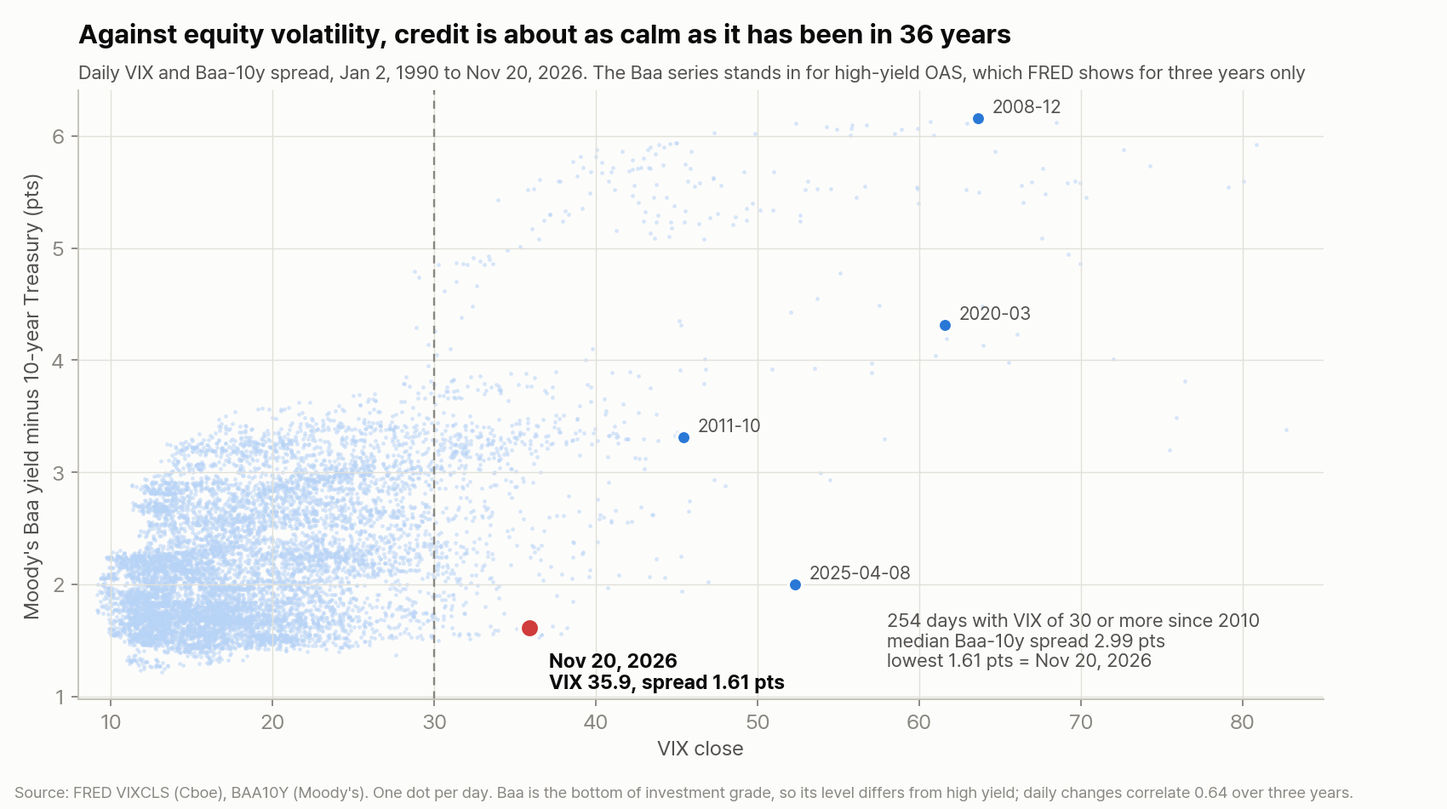
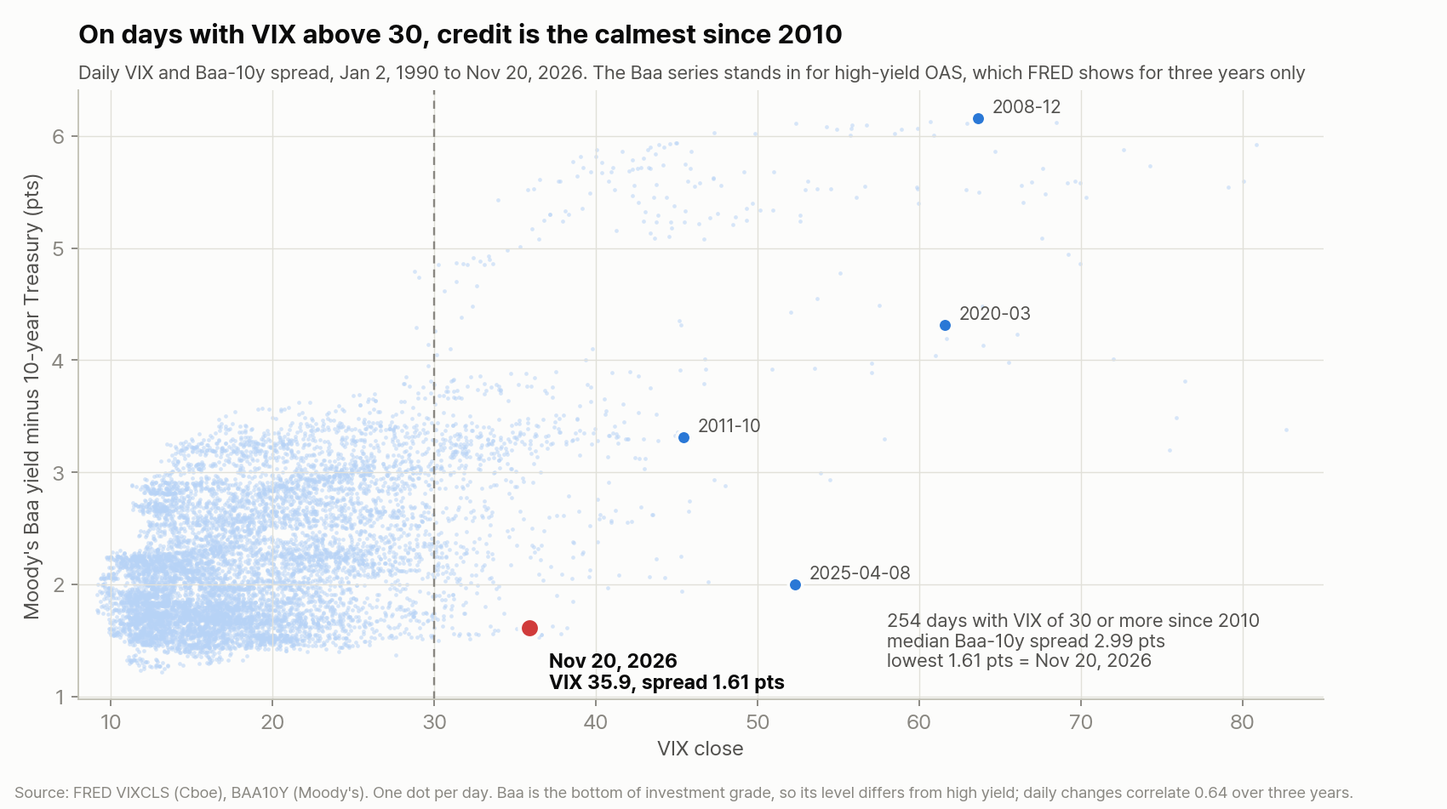
blog: High yield crossed 350bp; the damage sits in CCC bonds and the core of the credit market is holding (en, ko)

Changed region(s): [[0.0312, 0.0305, 0.7171, 0.061]]

diff --git a/content/post/high-yield-crossed-350bp-damage-in-ccc-tail-core-holds-2026-11-24/index.ko.md b/content/post/high-yield-crossed-350bp-damage-in-ccc-tail-core-holds-2026-11-24/index.ko.md
@@ -1,0 +1,149 @@
+---
+title: "하이일드가 350bp를 넘었습니다: 상처는 CCC 채권에 몰렸고 신용시장의 몸통은 아직 버팁니다"
+date: 2026-11-24T23:30:00+09:00
+lastmod: 2026-11-24T23:30:00+09:00
+categories: ["market-analysis", "ai-infrastructure"]
+tags: ["하이일드", "신용 스프레드", "CCC", "회사채", "VIX", "AI 설비투자", "네오클라우드", "연준"]
+series: ["AI Capex Watch"]
+slug: "high-yield-crossed-350bp-damage-in-ccc-tail-core-holds-2026-11-24"
+description: "미국 하이일드 스프레드가 11월 20일 376bp로 저희가 적어 둔 350bp 선을 넘었습니다. 그런데 CCC만 작년 4월 고점을 265bp 넘었고 BB·B는 그 고점보다 77bp 이상 낮습니다. VIX 35.9에 비하면 신용은 2010년 이후 가장 조용합니다."
+image: "cover.ko.png"
+draft: false
+---
+
+11월 14일 저희는 AI 회사채가 위험의 값을 거의 받지 않고 있다고 썼습니다. 그 판단을 뒤집는 첫 신호로는 하이일드 스프레드 350bp와 AA 등급 스프레드 75bp를 적었습니다.
+
+11월 19일 미국 하이일드 스프레드가 352bp로 그 선을 넘었고, 11월 20일에는 376bp까지 벌어졌습니다. 같은 날 S&P 500은 10월 6일 고점보다 11.6% 낮았고 VIX는 35.89였습니다. 신용이 값을 받기 시작한 것은 맞습니다.
+
+그런데 등급별로 쪼개 보면 값이 붙은 자리가 좁습니다. CCC 이하 채권의 스프레드는 1,402bp로 2025년 4월 관세 충격 때보다 265bp 높습니다. 하이일드 지수의 몸통인 BB와 B는 그때보다 77~78bp 낮습니다.
+
+<strong>저희 판단: 12월 18일 마이크론 실적까지 4주를 놓고 보면, 이번 확대는 가장 약한 차주가 다시 값을 매기는 과정입니다. 신용시장 전체가 무너지기 시작한 신호로 보지 않습니다. 판단을 다시 할 다음 선은 AA 스프레드 75bp(11월 20일 72bp)와, 하이일드 스프레드가 400bp 위에서 5거래일을 버티는 경우입니다.</strong>
+
+- 하이일드 스프레드 376bp는 최근 3년 가운데 상위 4%입니다. 다만 이 3년은 역사적으로 스프레드가 좁던 시기이고, 관세 충격 고점 461bp보다는 85bp 낮습니다.
+- CCC와 BB의 격차는 1,173bp로 3년 최대입니다. CCC는 1월 말부터 564bp 벌어졌고 주식 급락보다 먼저 움직였습니다.
+- 2010년 이후 VIX가 30을 넘은 254일 가운데 11월 20일의 Baa 회사채 스프레드(1.61%p)가 가장 낮았습니다. 주식 변동성에 비해 신용은 거의 놀라지 않았습니다.
+- 11월 23일 S&P 500이 4.7% 오른 날 하이일드 스프레드는 약 5bp만 좁아진 것으로 추정됩니다. 신용은 급락 때 주식보다 훨씬 덜 움직였고 반등 때는 거의 움직이지 않았습니다.
+- 다음 확인은 11월 23~25일 공식 스프레드 값, 12월 10일 FOMC 뒤 신용 반응, 12월 18일까지의 AA 75bp입니다.
+
+## 350bp는 넘었지만 작년 4월 고점까지는 85bp가 남았습니다
+
+하이일드 스프레드는 9월 21일 266bp에서 두 달 만에 110bp 벌어졌습니다. 11월 13일부터 20일까지 5거래일 동안 53bp가 벌어졌는데, 최근 3년 가운데 8번째로 빠른 속도입니다. 더 빨랐던 때는 2024년 8월 엔캐리 청산과 2025년 4월 관세 충격뿐입니다.
+
+![미국 하이일드 OAS 일별 추이, 2023년 11월 24일부터 2026년 11월 20일까지. 3년 중앙값 3.02%, 2025년 1월 22일 저점 2.59%, 2025년 4월 7일 관세 충격 고점 4.61%, 2026년 11월 20일 3.76%, 11월 23일 추정 3.71%.](/post-assets/high-yield-crossed-350bp-damage-in-ccc-tail-core-holds-2026-11-24/hy-oas-3y.ko.png)
+
+'3년 상위 4%'는 무겁게 들리지만 읽는 범위를 함께 봐야 합니다. 미국 연준 경제 데이터베이스(FRED)는 ICE 하이일드 지수를 최근 3년만 공개합니다. 이 3년의 평균 스프레드는 긴 역사로 보면 낮은 쪽에 있습니다(3절).
+
+## 상처는 CCC 채권에 몰렸습니다
+
+2025년 4월에는 BB·B·CCC가 같은 날 함께 정점을 찍었습니다. 이번에는 CCC만 그 선을 넘었습니다.
+
+![등급별 OAS 세 칸. BB는 11월 20일 2.29%로 2025년 4월 7일 3.06%보다 77bp 낮고, B는 4.08%로 4.86%보다 78bp 낮으며, CCC 이하는 14.02%로 11.37%보다 265bp 높습니다.](/post-assets/high-yield-crossed-350bp-damage-in-ccc-tail-core-holds-2026-11-24/hy-ratings-small-multiples.ko.png)
+
+| 11월 20일 | 값 | 최근 3년 중 위치 | 2025년 4월 7일 대비 | 9월 21일 대비 |
+|---|---:|---:|---:|---:|
+| 하이일드 전체 | 376bp | 상위 4% | -85bp | +110bp |
+| BB | 229bp | 상위 5% | -77bp | +76bp |
+| B | 408bp | 상위 2% | -78bp | +138bp |
+| CCC 이하 | 1,402bp | 최고 | +265bp | +325bp |
+| 투자등급 회사채 전체 | 98bp | 상위 15% | -22bp | +21bp |
+| AA | 72bp | 작년 고점 73bp | -1bp | - |
+| 하이일드 총금리 | 8.46% | 상위 1% | -5bp | - |
+
+표에서 읽을 것은 꼬리와 몸통의 거리입니다. CCC는 1월 28일 838bp에서 10개월 동안 564bp 벌어졌고, CCC와 BB의 격차(1,173bp)는 3년 최대입니다. 위험이 지수 전체보다 가장 약한 층에 쌓이고 있습니다.
+
+꼬리 안에서도 쏠림이 있습니다. Vanguard는 11월 10일 150여 개 CCC 발행사 가운데 넷이 CCC 스프레드의 30% 넘게 차지하고, 통신·미디어 기업이 많다고 밝혔습니다. CCC는 하이일드 시장의 10%가 안 됩니다. AI 쪽 약한 고리인 코어위브의 5년 신용부도스와프(CDS)는 1,100~1,200bp, 2031년 만기 채권 수익률은 16% 가까이로 보도됐습니다(CNBC, 11월 18일).
+
+## VIX 30을 넘은 날로 보면 신용은 2010년 이후 가장 조용합니다
+
+하이일드 지수의 긴 이력을 공개 자료로 쓸 수 없어, 1990년부터 끊김 없이 공개된 무디스 Baa 회사채 금리와 10년 국채 금리의 차이를 함께 봤습니다. Baa는 투자등급의 가장 아래 칸이라 수준은 하이일드와 다르지만, 최근 3년 두 지표의 일별 변화 상관은 0.64입니다.
+
+![1990년부터 2026년까지 일별 VIX와 Baa-10년 스프레드 산점도. 2008년 12월, 2020년 3월, 2011년 10월, 2025년 4월 8일은 VIX가 높을 때 스프레드도 높았습니다. 2026년 11월 20일은 VIX 35.9에 스프레드 1.61%p로 아래쪽에 홀로 떨어져 있습니다.](/post-assets/high-yield-crossed-350bp-damage-in-ccc-tail-core-holds-2026-11-24/vix-vs-baa-1990.ko.png)
+
+| 국면 | Baa-10년 스프레드 고점 | VIX 고점 |
+|---|---:|---:|
+| 2008년 금융위기 | 6.16%p | 80.9 |
+| 2020년 코로나 | 4.31%p | 82.7 |
+| 2016년 에너지 신용 | 3.63%p | 28.1 |
+| 2011년 유럽 재정위기 | 3.39%p | 48.0 |
+| 2022년 긴축 | 2.42%p | 34.0 |
+| 2025년 관세 충격 | 2.02%p | 52.3 |
+| 2026년 11월(20일까지) | 1.61%p | 35.9 |
+
+2010년 이후 VIX가 30을 넘은 254일의 Baa 스프레드 중앙값은 2.99%p입니다. 11월 20일은 그 254일 가운데 가장 낮았습니다. 차이는 크지 않습니다. 다음으로 낮았던 날은 2018년 2월 변동성 급등 때의 1.63%p입니다. 1990년까지 넓히면 1990년 8월에 더 낮은 날이 있었습니다. 주식시장은 공포에 가까운 변동성을 보였는데 신용시장은 거의 평상시 가격을 유지했습니다.
+
+## 주식은 하루 만에 4.7% 돌아왔고 신용은 거의 움직이지 않았습니다
+
+11월 20일 S&P 500은 3.7%, 나스닥은 5.2% 내렸습니다. 보도는 AI 거래의 붕괴와 엔비디아 14% 하락을 전하며 CEO 이탈을 함께 다뤘습니다(Investopedia). 11월 23일에는 엔비디아 이사회가 젠슨 황을 복귀시켰다는 보도와 함께 엔비디아가 31% 올랐습니다(Yahoo Finance). S&P 500 종가는 4.7% 올랐습니다.
+
+신용은 급락하던 날에도 움직이긴 했습니다. 11월 20일 하루에 하이일드 스프레드가 24bp 벌어졌습니다. 그래도 주식의 낙폭에 비하면 작았고, 반등하던 날에는 거의 돌아오지 않았습니다.
+
+![8월 말 이후 최근 고점 대비 하락률을 2026년 9월 1일부터 11월 23일까지 표시. S&P 500 ETF(SPY)는 11월 20일 -11.5%에서 11월 23일 -7.3%로 회복, BDC ETF는 -7.1%, 하이일드 채권 ETF는 -2.8%, 레버리지론 ETF는 -0.5%.](/post-assets/high-yield-crossed-350bp-damage-in-ccc-tail-core-holds-2026-11-24/drawdown-equity-vs-credit.ko.png)
+
+하이일드 채권 ETF(HYG)는 반등한 날 0.25% 오르는 데 그쳤습니다. 공식 11월 23일 스프레드는 아직 게시되지 않아, 최근 3개월 HYG 수익률과 10년 금리 변화로 추정했습니다. 추정치는 약 371bp(범위 362~380bp)로, 하루 동안 5bp쯤 좁아진 셈입니다. 레버리지론 ETF는 오히려 조금 내렸습니다. 주식은 엔비디아 경영진 소식에 반응했고, 신용은 그 소식을 이자 지급 능력과 무관한 일로 읽은 것으로 보입니다.
+
+## 긴축은 금리에서 위험 웃돈으로 옮겨 갔습니다
+
+| 지표 | 11월 13일 | 11월 20일 | 변화 |
+|---|---:|---:|---:|
+| 1년 국채 금리 - SOFR | 75bp | 59bp | -16bp |
+| 10년 국채 금리 | 5.15% | 4.92% | -23bp |
+| 하이일드 스프레드 | 323bp | 376bp | +53bp |
+| 하이일드 총금리 | 8.20% | 8.46% | +26bp |
+
+11월 둘째 주의 긴축은 실질금리 상승으로 왔고, 그때 하이일드 스프레드는 오히려 좁아졌습니다. 셋째 주에는 방향이 바뀌었습니다. 국채 금리가 내렸고, 금리 인상 기대를 거칠게 보여 주는 1년 국채 금리와 SOFR의 차이도 줄었습니다. 그 자리를 위험 웃돈이 채웠습니다. 돈의 가격은 내리는데 위험의 가격이 오르는 조합입니다.
+
+## 몸통이 버티는 이유와 꼬리가 무너지는 이유
+
+하이일드 지수의 90% 이상은 BB와 B입니다. 총금리 8%대는 수익률을 보고 사는 보험·연금·인컴 펀드에게 매력적인 가격입니다. 11월 20일 10년 국채 금리가 12bp 내리는 동안 스프레드가 24bp 벌어져 총금리는 11bp만 올랐습니다. 총금리가 크게 변하지 않으면 이런 매수 수요는 잘 빠지지 않습니다. 다만 이 해석은 펀드 자금 흐름 자료로 직접 확인하지 못한 추론입니다.
+
+CCC 차주는 사정이 다릅니다. 이들은 빚을 시장 금리로 다시 빌려야 합니다. 10년 국채 5% 안팎에 CCC 스프레드 14%를 더하면 새로 빌리는 비용이 19% 안팎입니다. 이 이자를 감당할 현금흐름이 없는 기업부터 가격이 빠집니다.
+
+주식과 신용이 갈라진 이유도 같은 틀로 설명됩니다. 11월 20일의 충격은 엔비디아 경영진 문제와 AI 기업가치에서 나왔습니다. 그 소식은 대부분 기업의 이자 지급 능력을 바로 바꾸지 않습니다. 신용이 주식만큼 크게 움직이지 않은 것도, 반등 때 함께 돌아오지 않은 것도 그래서 일관됩니다.
+
+## AI 설비투자와 메모리에 닿는 경로
+
+하이퍼스케일러는 영업현금과 투자등급 채권으로 설비투자 자금을 댑니다. 그 채권이 거래되는 가격대인 AA 스프레드는 72bp로, 저희가 적어 둔 75bp 선 아래입니다. 신용이 AI 설비투자를 줄이는 경로가 열린다면 하이퍼스케일러 본체보다 빚으로 GPU를 사는 네오클라우드 같은 한계 구매자에서 먼저 열립니다.
+
+한계 구매자의 조달 비용이 오르면 2027~2028년 GPU와 고대역폭메모리(HBM)의 추가 주문 가운데 가장자리가 깎입니다. 하이퍼스케일러 본체 물량은 이 경로와 따로 움직입니다. 그래서 메모리 수요를 앞서 읽으려면 하이일드 지수 전체보다 네오클라우드 채권 가격과 AA 스프레드가 더 쓸모 있습니다.
+
+주식 쪽으로 옮기면, 지금 신용의 모양은 이익과 설비투자가 유지된 채 주가만 크게 빠진 2022년형 급락과 닮았습니다. 2000년형 붕괴로 가려면 하이일드가 400bp 위에서 5거래일을 버티고, 대형 클라우드 기업의 설비투자 가이던스 하향이 함께 나와야 합니다.
+
+## 반론: 2007년에도 꼬리가 먼저 벌어졌습니다
+
+저희 판단의 가장 강한 반례는 2007년입니다. 그때는 하이일드의 약한 꼬리가 먼저 벌어졌고, 몸통과 주식은 몇 달 뒤에 따라왔습니다. 올해 CCC가 1월부터 꾸준히 벌어진 모양은 그 선행 패턴과 닮았습니다.
+
+이 반론이 맞다면 11월 23일의 반등은 약세장 안의 되돌림이고, 지금 조용한 BB와 AA가 몇 주 안에 따라 벌어집니다. 그래서 저희는 꼬리보다 꼬리와 몸통 사이를 봅니다. AA 75bp가 그 첫 관측점입니다.
+
+## 다음에 볼 것
+
+| 일정 | 볼 것 | 판단을 바꾸는 조건 |
+|---|---|---|
+| 11월 25~26일 | FRED에 올라올 11월 23~25일 하이일드·CCC 스프레드 | 하이일드 350bp 미만과 CCC 1,350bp 미만이 5거래일 이어지면 꼬리 경보를 거둡니다 |
+| 12월 10일(한국시간) | FOMC 결정 뒤 신용 반응 | 금리 인상과 스프레드 확대가 겹치면 꼬리가 몸통으로 번질 위험이 커집니다 |
+| 12월 18일까지 | AA 스프레드 75bp | 넘으면 하이퍼스케일러 조달 비용을 다시 판단합니다 |
+| 12월 18일까지 | 하이일드 400bp 위 5거래일 | 이어지면 넓은 신용 사이클 쪽으로 판단을 옮깁니다 |
+| 매주 | 네오클라우드 채권 가격, 대형 기술주 CDS | AI 한계 구매자의 조달 창이 닫히는지 봅니다 |
+
+## 자료 메모
+
+- 하이일드·등급별 스프레드는 ICE BofA 지수의 옵션조정 스프레드(OAS)이고 FRED에서 받았습니다. FRED는 이 계열을 최근 3년만 공개해, 2008·2020년 하이일드 고점은 같은 지표로 비교하지 못했습니다. 긴 비교는 무디스 Baa 회사채와 10년 국채의 금리 차이로 대신했습니다.
+- 11월 23일 하이일드 스프레드는 저희 추정입니다. 최근 3개월 62개 관측으로 일별 스프레드 변화를 HYG 수익률과 10년 금리 변화에 회귀했고(설명력 0.65, 잔차 표준편차 4.4bp), 스트레스 구간에는 ETF 가격이 기초 채권과 벌어질 수 있습니다.
+- CCC 수준은 지수 제공자마다 다릅니다. Vanguard가 11월 10일 쓴 약 1,000bp와 같은 시기 ICE 값(약 1,300bp)의 차이는 지수 정의 차이로 보입니다.
+- 11월 20일과 23일의 원인은 언론 보도에 기댔습니다. 하이일드 펀드 자금 흐름, 코어위브 채권 가격, 대형 기술주 CDS는 1차 값을 받지 못했습니다.
+- '최근 3년 중 위치'는 2023년 11월 24일부터 2026년 11월 20일까지 일별 값 가운데 11월 20일보다 낮은 날의 비율로 계산했습니다.
+
+출처: [FRED, ICE BofA US High Yield Index OAS](https://fred.stlouisfed.org/series/BAMLH0A0HYM2) · [FRED, 등급별 OAS(BB](https://fred.stlouisfed.org/series/BAMLH0A1HYBB) · [B](https://fred.stlouisfed.org/series/BAMLH0A2HYB) · [CCC)](https://fred.stlouisfed.org/series/BAMLH0A3HYC) · [FRED, AA OAS](https://fred.stlouisfed.org/series/BAMLC0A2CAA) · [FRED, Baa-10년 스프레드](https://fred.stlouisfed.org/series/BAA10Y) · [FRED, VIX](https://fred.stlouisfed.org/series/VIXCLS) · [Investopedia/Yahoo Finance, 11월 20일 시장](https://finance.yahoo.com/markets/stocks/articles/stock-market-today-futures-plunge-131303598.html) · [Yahoo Finance, 11월 23일 반도체 반등](https://finance.yahoo.com/markets/article/chip-stocks-led-a-3-trillion-comeback-on-monday--now-comes-turnaround-tuesday-chart-of-the-day-110000187.html) · [Vanguard, Beyond CCCs, high-yield appears resilient](https://corporate.vanguard.com/content/corporatesite/us/en/corp/articles/beyond-ccc-high-yield-appears-resilient.html) · [CNBC, AI CDS(11월 18일)](https://www.cnbc.com/2026/11/18/ai-credit-default-swaps-coreweave-debt.html)
+
+관련 글: [막스가 '믿음의 문제'라 한 AI 회수에 빅테크는 이미 3조달러를 걸었습니다](/post/marks-faith-fed-3-trillion-signed-credit-not-paid-2026-11-14/) · [AI 주식의 질문이 '누가 돈을 대나'로 넘어갔습니다](/post/ai-narrative-demand-to-money-to-permission-credit-decides-2026-11-07/)
+
+<strong>하이일드 꼬리의 균열은 어디서 먼저 몸통으로 올라올까요? A~D 가운데 하나와 그 이유가 되는 숫자 하나를 댓글로 남겨 주세요.</strong>
+
+<strong>A. AA 회사채. 하이퍼스케일러의 조달 비용이 먼저 오릅니다.</strong>
+
+<strong>B. BB 하이일드. 우량 하이일드가 먼저 흔들립니다.</strong>
+
+<strong>C. 레버리지론과 BDC. 사모신용 쪽이 먼저 터집니다.</strong>
+
+<strong>D. 올라오지 않습니다. 꼬리만 정리되고 끝납니다.</strong>
+
+연구와 정보 제공 목적이며 투자 조언이 아닙니다. 판단과 조건은 분석 가정이지 매매 지시나 개인별 포트폴리오 결정이 아닙니다. 수치는 기준일이 있는 자료이고 11월 23일 하이일드 값은 추정입니다. 분석과 작성에는 Anthropic의 Claude를 썼습니다. 11월 20일 시장 보도에는 Anthropic 상장 첫 거래가 함께 나오며, 그 영향의 크기는 판단하지 않았습니다.

diff --git a/content/post/high-yield-crossed-350bp-damage-in-ccc-tail-core-holds-2026-11-24/index.en.md b/content/post/high-yield-crossed-350bp-damage-in-ccc-tail-core-holds-2026-11-24/index.en.md
@@ -1,0 +1,151 @@
+---
+title: "High Yield Crossed 350bp. The Damage Sits in CCC Bonds, and the Core of the Credit Market Is Holding"
+date: 2026-11-24T23:30:00+09:00
+lastmod: 2026-11-24T23:30:00+09:00
+categories: ["market-analysis", "ai-infrastructure"]
+tags: ["High Yield", "Credit Spreads", "CCC", "Corporate Bonds", "VIX", "AI Capex", "Neoclouds", "Federal Reserve"]
+series: ["AI Capex Watch"]
+slug: "high-yield-crossed-350bp-damage-in-ccc-tail-core-holds-2026-11-24"
+description: "US high-yield spreads hit 376bp on November 20, past the 350bp line we set. Yet only CCC bonds are above last April's peak, by 265bp; BB and B sit 77bp or more below it. Against a VIX of 35.9, credit is the calmest since 2010."
+image: "cover.en.png"
+draft: false
+---
+
+On November 14 we wrote that AI corporate bonds were barely charging for risk. We named the first signals that would change that view: a high-yield spread of 350bp and an AA spread of 75bp.
+
+On November 19 the US high-yield spread closed at 352bp, past that line. On November 20 it reached 376bp. The same day the S&P 500 stood 11.6% below its October 6 peak and the VIX closed at 35.89. Credit has started to charge.
+
+Break the index down by rating, though, and the charge lands in a narrow place. CCC and lower bonds trade at a 1,402bp spread, 265bp above the April 2025 tariff shock. BB and B, the body of the high-yield index, are 77 to 78bp below that peak.
+
+<strong>Our view: over the four weeks to Micron's results on December 18, this widening is the weakest borrowers being repriced. We do not read it as the start of a broad credit cycle. The next lines that would make us look again are an AA spread of 75bp (72bp on November 20) and a high-yield spread that holds above 400bp for five trading days.</strong>
+
+- A 376bp high-yield spread is in the top 4% of the last three years. Those three years were a period of unusually tight spreads, and 376bp is still 85bp below the 461bp tariff-shock peak.
+- The gap between CCC and BB spreads is 1,173bp, the widest in three years. CCC spreads have widened 564bp since late January, ahead of the stock sell-off.
+- Of the 254 days since 2010 with a VIX of 30 or more, November 20 had the lowest Baa corporate spread (1.61 points). Credit was barely startled by equity volatility.
+- On November 23, when the S&P 500 rose 4.7%, the high-yield spread narrowed by only about 5bp on our estimate. Credit moved far less than stocks on the way down and barely at all on the way up.
+- Next checks: the official spreads for November 23 to 25, the credit reaction to the December 10 FOMC, and the AA spread against 75bp by December 18.
+
+## High yield crossed 350bp but is still 85bp below last April's peak
+
+The high-yield spread widened 110bp in two months, from 266bp on September 21. It widened 53bp in the five trading days from November 13 to 20, the eighth-fastest move of the last three years. Only the August 2024 yen carry unwind and the April 2025 tariff shock were faster.
+
+![Daily US high-yield OAS from November 24, 2023 to November 20, 2026. Three-year median 3.02%, low of 2.59% on January 22, 2025, tariff-shock peak of 4.61% on April 7, 2025, 3.76% on November 20, 2026, and an estimated 3.71% on November 23.](/post-assets/high-yield-crossed-350bp-damage-in-ccc-tail-core-holds-2026-11-24/hy-oas-3y.en.png)
+
+"Top 4% of three years" sounds heavy, but the window matters. FRED, the St. Louis Fed's database, publishes the ICE high-yield indexes for the last three years only. Over a long history, the average spread of those three years sits on the low side (see the third section).
+
+## The damage sits in CCC bonds
+
+In April 2025, BB, B and CCC spreads all peaked on the same day. This time only CCC has crossed that line.
+
+![Three panels of option-adjusted spreads by rating. BB at 2.29% on November 20, 77bp below 3.06% on April 7, 2025. B at 4.08%, 78bp below 4.86%. CCC and lower at 14.02%, 265bp above 11.37%.](/post-assets/high-yield-crossed-350bp-damage-in-ccc-tail-core-holds-2026-11-24/hy-ratings-small-multiples.en.png)
+
+| November 20 | Level | Rank in 3 years | vs April 7, 2025 | vs September 21 |
+|---|---:|---:|---:|---:|
+| High yield, all | 376bp | top 4% | -85bp | +110bp |
+| BB | 229bp | top 5% | -77bp | +76bp |
+| B | 408bp | top 2% | -78bp | +138bp |
+| CCC and lower | 1,402bp | highest | +265bp | +325bp |
+| Investment grade, all | 98bp | top 15% | -22bp | +21bp |
+| AA | 72bp | last year's peak 73bp | -1bp | - |
+| High-yield total yield | 8.46% | top 1% | -5bp | - |
+
+The table is about the distance between the tail and the body. CCC spreads went from 838bp on January 28 to 1,402bp, up 564bp in ten months, and the CCC-BB gap of 1,173bp is the widest in three years. Risk is piling up in the weakest layer, not across the index.
+
+The tail itself is concentrated. Vanguard said on November 10 that four of more than 150 CCC issuers account for more than 30% of CCC spreads, many of them in telecom and media. CCC bonds are less than 10% of the high-yield market. On the AI side, CoreWeave's five-year credit default swap was reported at 1,100 to 1,200bp, with its 2031 bond yielding close to 16% (CNBC, November 18).
+
+## On days with VIX above 30, credit is the calmest since 2010
+
+The long history of the high-yield index is not public, so we used the gap between Moody's Baa corporate yield and the 10-year Treasury, published without a break since 1990. Baa is the bottom rung of investment grade, so its level differs from high yield, but daily changes in the two series correlated 0.64 over the last three years.
+
+![Scatter of daily VIX against the Baa minus 10-year spread, 1990 to 2026. In December 2008, March 2020, October 2011 and April 8, 2025, high VIX came with high spreads. November 20, 2026 sits alone near the bottom, with a VIX of 35.9 and a spread of 1.61 points.](/post-assets/high-yield-crossed-350bp-damage-in-ccc-tail-core-holds-2026-11-24/vix-vs-baa-1990.en.png)
+
+| Episode | Peak Baa-10y spread | Peak VIX |
+|---|---:|---:|
+| 2008 financial crisis | 6.16 pts | 80.9 |
+| 2020 pandemic | 4.31 pts | 82.7 |
+| 2016 energy credit | 3.63 pts | 28.1 |
+| 2011 euro crisis | 3.39 pts | 48.0 |
+| 2022 tightening | 2.42 pts | 34.0 |
+| 2025 tariff shock | 2.02 pts | 52.3 |
+| November 2026 (to the 20th) | 1.61 pts | 35.9 |
+
+On the 254 days since 2010 when the VIX closed at 30 or higher, the median Baa spread was 2.99 points. November 20 was the lowest of all 254, though by a narrow margin: the next lowest was 1.63 points during the February 2018 volatility spike. Going back to 1990, August 1990 had lower readings. The stock market showed near-panic volatility while the credit market held close to normal prices.
+
+We also share new analyses on Telegram as they are published. You are welcome to join us at [@korea_invest_insights](https://t.me/korea_invest_insights).
+
+## Stocks recovered 4.7% in a day, and credit barely moved
+
+On November 20 the S&P 500 fell 3.7% and the Nasdaq 5.2%. Reports described a breakdown in the AI trade and a 14% fall in Nvidia, alongside news of its CEO's departure (Investopedia). On November 23, Nvidia rose 31% as reports said its board had brought Jensen Huang back (Yahoo Finance). The S&P 500 closed 4.7% higher.
+
+Credit did move on the way down. The high-yield spread widened 24bp on November 20 alone. That was still small next to the fall in stocks, and on the rebound day credit barely came back.
+
+![Drawdown from the most recent peak since late August, shown from September 1 to November 23, 2026. The S&P 500 ETF (SPY) went from -11.5% on November 20 to -7.3% on November 23; the BDC ETF was at -7.1%, the high-yield bond ETF at -2.8% and the leveraged loan ETF at -0.5%.](/post-assets/high-yield-crossed-350bp-damage-in-ccc-tail-core-holds-2026-11-24/drawdown-equity-vs-credit.en.png)
+
+The high-yield bond ETF (HYG) rose only 0.25% on the rebound day. The official November 23 spread is not yet published, so we estimated it from three months of HYG returns and 10-year yield changes. The estimate is about 371bp (range 362 to 380bp), about 5bp tighter on the day. The leveraged loan ETF slipped slightly. Stocks reacted to news about Nvidia's leadership; credit appears to have read that news as unrelated to anyone's ability to pay interest.
+
+## Tightening moved from rates to the risk premium
+
+| Measure | November 13 | November 20 | Change |
+|---|---:|---:|---:|
+| 1-year Treasury minus SOFR | 75bp | 59bp | -16bp |
+| 10-year Treasury | 5.15% | 4.92% | -23bp |
+| High-yield spread | 323bp | 376bp | +53bp |
+| High-yield total yield | 8.20% | 8.46% | +26bp |
+
+In the second week of November, tightening came through higher real rates, and high-yield spreads actually narrowed. In the third week the direction flipped. Treasury yields fell, and so did the gap between the 1-year Treasury yield and SOFR, a rough gauge of expected rate hikes. The risk premium took their place. The price of money fell while the price of risk rose.
+
+## Why the body holds and the tail breaks
+
+More than 90% of the high-yield index is BB and B. A total yield in the 8% range is an attractive price for insurers, pension funds and income funds that buy on yield. On November 20, the 10-year Treasury yield fell 12bp while the spread widened 24bp, so the total yield rose only 11bp. When the total yield barely moves, that buying tends to stay. This reading is an inference; we could not confirm it with fund-flow data.
+
+CCC borrowers are in a different position. They must refinance at market rates. A 10-year Treasury near 5% plus a 14% CCC spread puts new borrowing costs near 19%. Companies whose cash flow cannot carry that interest are the first to be marked down.
+
+The same frame explains why stocks and credit parted ways. The November 20 shock came from Nvidia's leadership and AI valuations. That news does not change most companies' ability to pay interest. So it is consistent that credit moved much less than stocks on the way down, and that it did not come back with them.
+
+## Where this reaches AI capex and memory
+
+Hyperscalers fund capital spending from operating cash flow and investment-grade bonds. The AA spread, where those bonds trade, is 72bp, below the 75bp line we set. If credit starts to cut AI spending, the path opens first at marginal buyers that borrow to buy GPUs, such as neoclouds, not at the hyperscalers themselves.
+
+When marginal buyers pay more to borrow, the edge of incremental GPU and high-bandwidth memory (HBM) orders for 2027 and 2028 gets trimmed. Hyperscaler volumes move separately from that path. So to read memory demand early, neocloud bond prices and the AA spread are more useful than the high-yield index as a whole.
+
+For stocks, today's credit picture looks like the 2022 kind of drawdown, where prices fell hard while earnings and capex held. Moving to a 2000-style collapse would take high yield holding above 400bp for five trading days, together with capex guidance cuts from the large cloud companies.
+
+## The case against us: in 2007 the tail went first too
+
+The strongest counterexample to our view is 2007. Then the weak tail of high yield widened first, and the body and stocks followed months later. The steady widening of CCC spreads since January looks like that leading pattern.
+
+If that case is right, the November 23 rally is a bounce inside a bear market, and today's quiet BB and AA spreads will widen within weeks. That is why we watch the space between the tail and the body more than the tail itself. AA at 75bp is the first checkpoint.
+
+## What we watch next
+
+| Date | What we watch | What would change our view |
+|---|---|---|
+| November 25 to 26 | High-yield and CCC spreads for November 23 to 25 on FRED | If high yield stays below 350bp and CCC below 1,350bp for five trading days, we drop the tail alert |
+| December 10 (KST) | The credit reaction after the FOMC decision | A hike together with wider spreads raises the risk of the tail spreading to the body |
+| By December 18 | AA spread at 75bp | A cross means we reassess hyperscaler funding costs |
+| By December 18 | High yield above 400bp for five trading days | If it holds, we move toward a broad credit cycle |
+| Weekly | Neocloud bond prices, large-tech CDS | Whether the funding window for AI's marginal buyers is closing |
+
+## Data notes
+
+- High-yield and rating spreads are option-adjusted spreads (OAS) of the ICE BofA indexes, taken from FRED. FRED publishes these series for the last three years only, so we could not compare the 2008 and 2020 high-yield peaks on the same measure. For the long view we used the gap between Moody's Baa corporate yield and the 10-year Treasury.
+- The November 23 high-yield spread is our estimate. We regressed daily spread changes on HYG returns and 10-year yield changes over 62 observations in the last three months (R² 0.65, residual standard deviation 4.4bp). In stress, ETF prices can drift from the underlying bonds.
+- CCC levels differ by index provider. The roughly 1,000bp Vanguard cited on November 10 and the ICE reading of about 1,300bp at the same time appear to reflect different index definitions.
+- The causes of the November 20 and 23 moves come from press reports. We did not obtain primary data for high-yield fund flows, CoreWeave bond prices or large-tech CDS.
+- "Rank in 3 years" is the share of days from November 24, 2023 to November 20, 2026 with a lower reading than November 20.
+
+Sources: [FRED, ICE BofA US High Yield Index OAS](https://fred.stlouisfed.org/series/BAMLH0A0HYM2) · [FRED, OAS by rating (BB](https://fred.stlouisfed.org/series/BAMLH0A1HYBB) · [B](https://fred.stlouisfed.org/series/BAMLH0A2HYB) · [CCC)](https://fred.stlouisfed.org/series/BAMLH0A3HYC) · [FRED, AA OAS](https://fred.stlouisfed.org/series/BAMLC0A2CAA) · [FRED, Baa minus 10-year](https://fred.stlouisfed.org/series/BAA10Y) · [FRED, VIX](https://fred.stlouisfed.org/series/VIXCLS) · [Investopedia/Yahoo Finance, November 20 markets](https://finance.yahoo.com/markets/stocks/articles/stock-market-today-futures-plunge-131303598.html) · [Yahoo Finance, November 23 chip rebound](https://finance.yahoo.com/markets/article/chip-stocks-led-a-3-trillion-comeback-on-monday--now-comes-turnaround-tuesday-chart-of-the-day-110000187.html) · [Vanguard, Beyond CCCs, high-yield appears resilient](https://corporate.vanguard.com/content/corporatesite/us/en/corp/articles/beyond-ccc-high-yield-appears-resilient.html) · [CNBC, AI credit default swaps (November 18)](https://www.cnbc.com/2026/11/18/ai-credit-default-swaps-coreweave-debt.html)
+
+Related: [Howard Marks Calls AI Payback a Matter of Faith](/post/marks-faith-fed-3-trillion-signed-credit-not-paid-2026-11-14/) · [AI Stocks Started Asking Who Pays](/post/ai-narrative-demand-to-money-to-permission-credit-decides-2026-11-07/)
+
+<strong>Where does the crack in the high-yield tail reach the body first? Reply with A, B, C or D, and the one number that decides it for you.</strong>
+
+<strong>A. AA corporate bonds. Hyperscaler funding costs rise first.</strong>
+
+<strong>B. BB high yield. The better half of junk wobbles first.</strong>
+
+<strong>C. Leveraged loans and BDCs. Private credit breaks first.</strong>
+
+<strong>D. It does not. The tail gets cleaned up and that is the end of it.</strong>
+
+This is for research and information only, not investment advice. Views and conditions are analytical assumptions, not trading instructions or individual portfolio decisions. Figures are dated data, and the November 23 high-yield value is an estimate. We used Anthropic's Claude for analysis and writing. Market reports on November 20 also covered Anthropic's first day of trading after its IPO; we did not assess the size of any effect.
